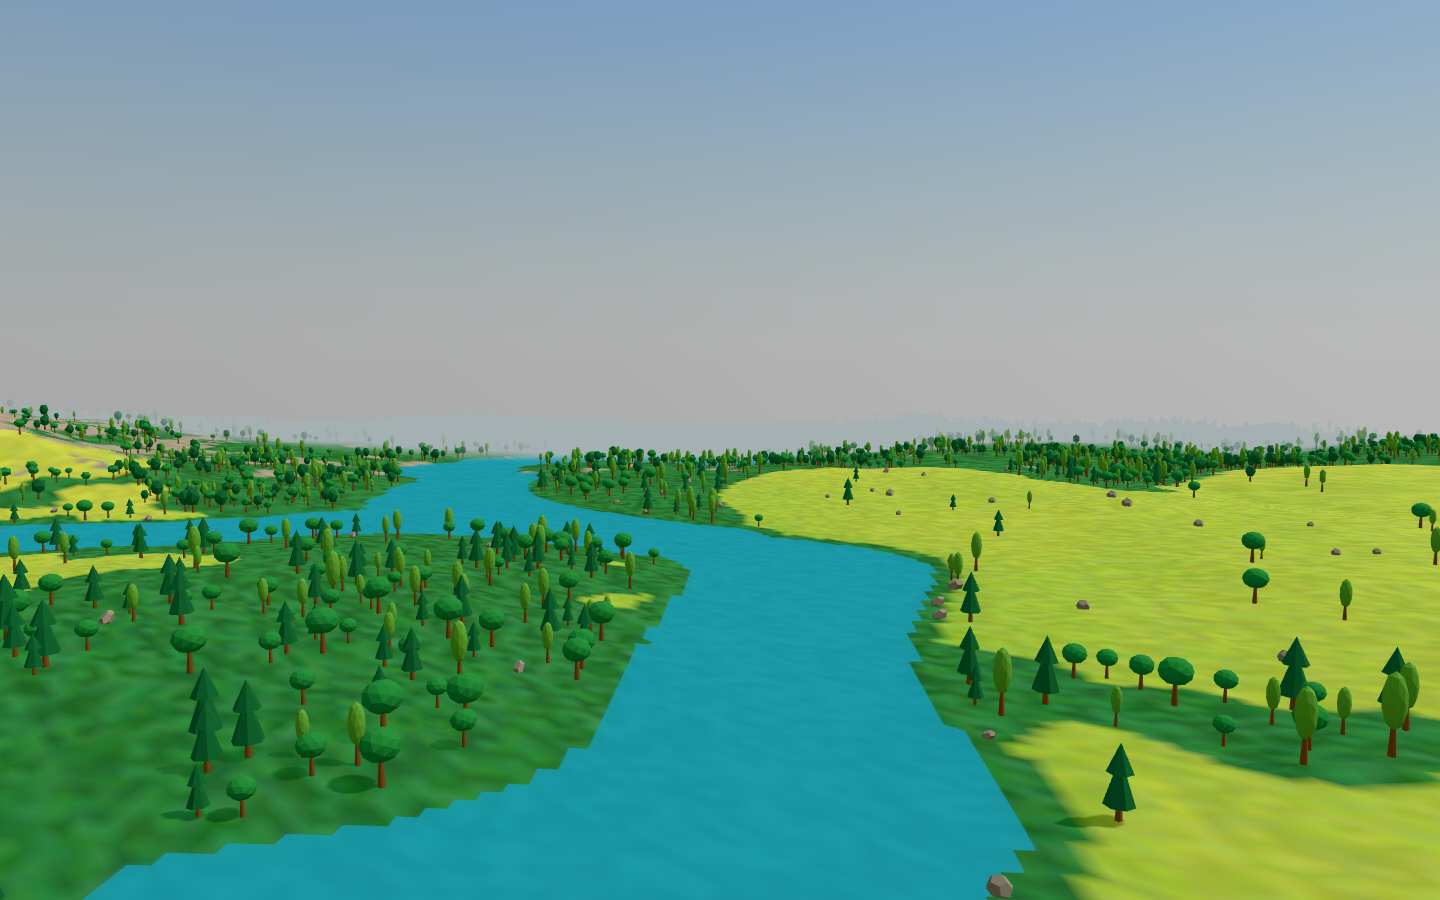
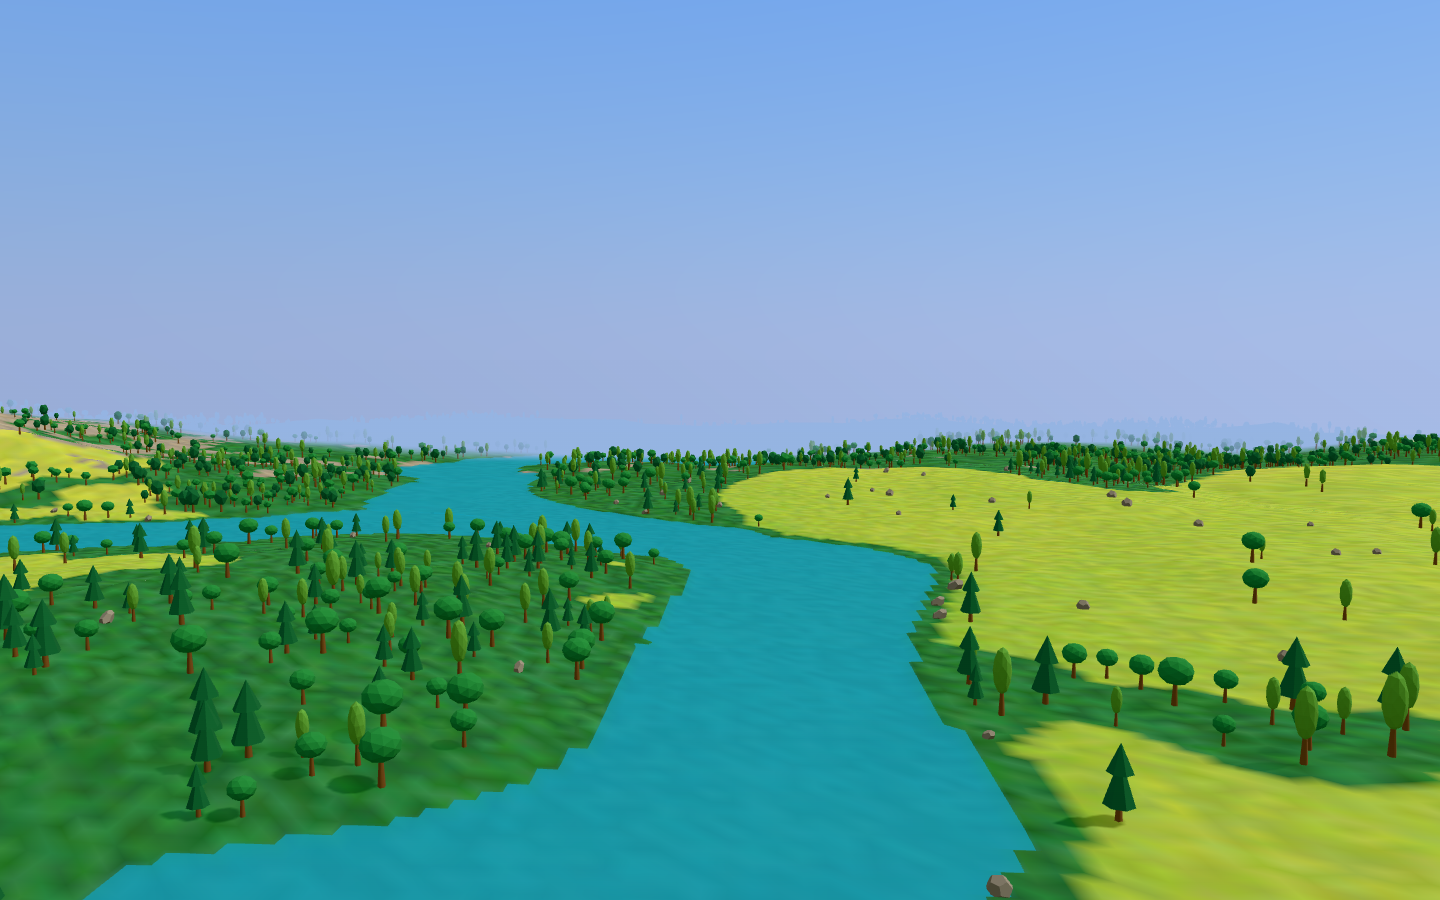
Deepen noon sky blue and haze

diff --git a/src/main.ts b/src/main.ts
@@ -144,7 +144,9 @@ sky.material.fragmentShader = sky.material.fragmentShader
 			float lowSky = 1.0 - smoothstep(0.0, 0.42, direction.y);
 			vec3 warmBand = vec3(0.78, 0.4, 0.22);
 			dayColor = mix(dayColor, warmBand, clamp(goldenAmount, 0.0, 1.0) * lowSky * 0.62);
-			dayColor = mix(dayColor, dayColor * vec3(0.58, 0.8, 1.32), clamp(blueAmount, 0.0, 1.0) * smoothstep(0.04, 0.5, direction.y) * 0.7);
+			float zenith = smoothstep(0.0, 0.55, direction.y);
+			vec3 noonBlue = dayColor * vec3(0.55, 0.78, 1.35) + vec3(0.02, 0.07, 0.22);
+			dayColor = mix(dayColor, noonBlue, clamp(blueAmount, 0.0, 1.0) * mix(0.62, 1.0, zenith));
 			dayColor += vec3(1.2, 0.55, 0.18) * sunDisc * 0.55 * sunUp;
 			float skyHorizon = pow(1.0 - clamp(direction.y, 0.0, 1.0), 3.0);
 			vec3 nightColor = vec3(0.004, 0.007, 0.026) + vec3(0.018, 0.026, 0.048) * skyHorizon;
@@ -650,9 +652,9 @@ function applyDaylight(body: Daylight, delta: number, forceFog: boolean): void {
   sky.material.uniforms.moonPosition!.value.copy(moonDir);
   sky.material.uniforms.turbidity!.value = 9.5 - high * 8.5;
   sky.material.uniforms.rayleigh!.value = 2.4 + high * 1.6;
-  sky.material.uniforms.mieCoefficient!.value = 0.016 - high * 0.0145;
+  sky.material.uniforms.mieCoefficient!.value = 0.016 - high * 0.015;
   sky.material.uniforms.mieDirectionalG!.value = 0.93 - high * 0.18;
-  sky.material.uniforms.skyExposure!.value = 0.16 + high * 0.04;
+  sky.material.uniforms.skyExposure!.value = 0.16 + high * 0.06;
   sky.material.uniforms.nightAmount!.value = body.night;
   sky.material.uniforms.goldenAmount!.value = 1 - high;
   sky.material.uniforms.blueAmount!.value = high;
